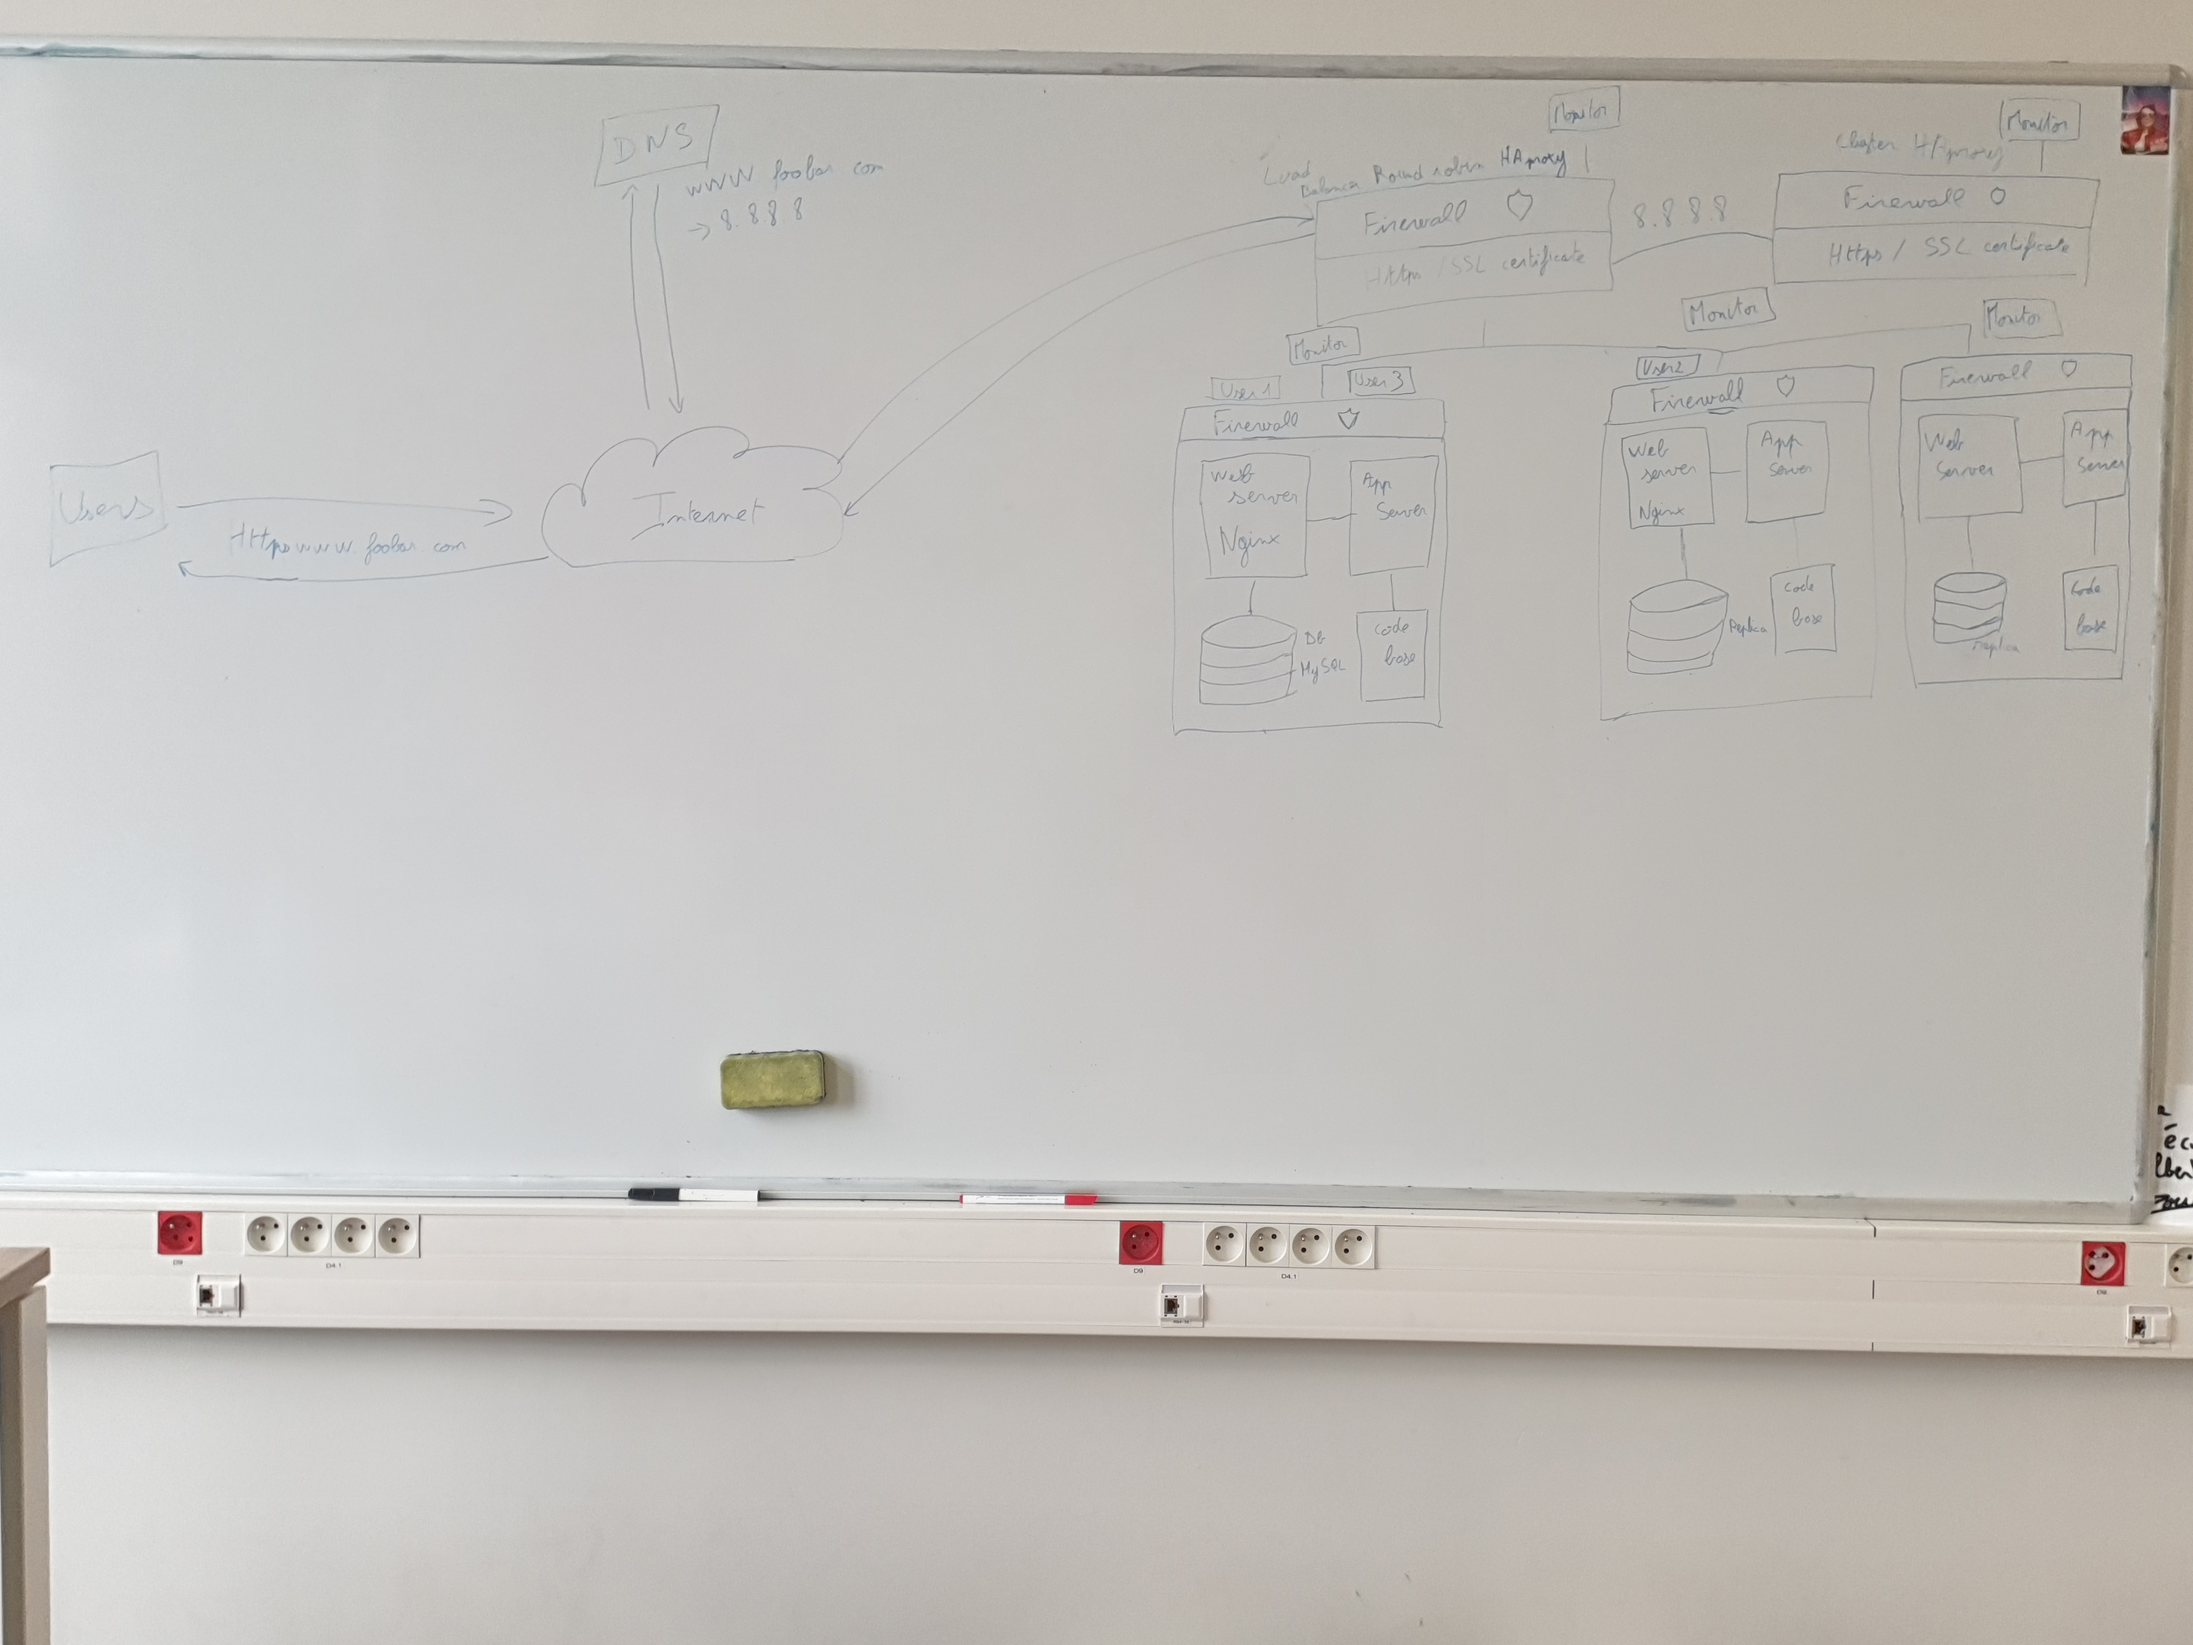
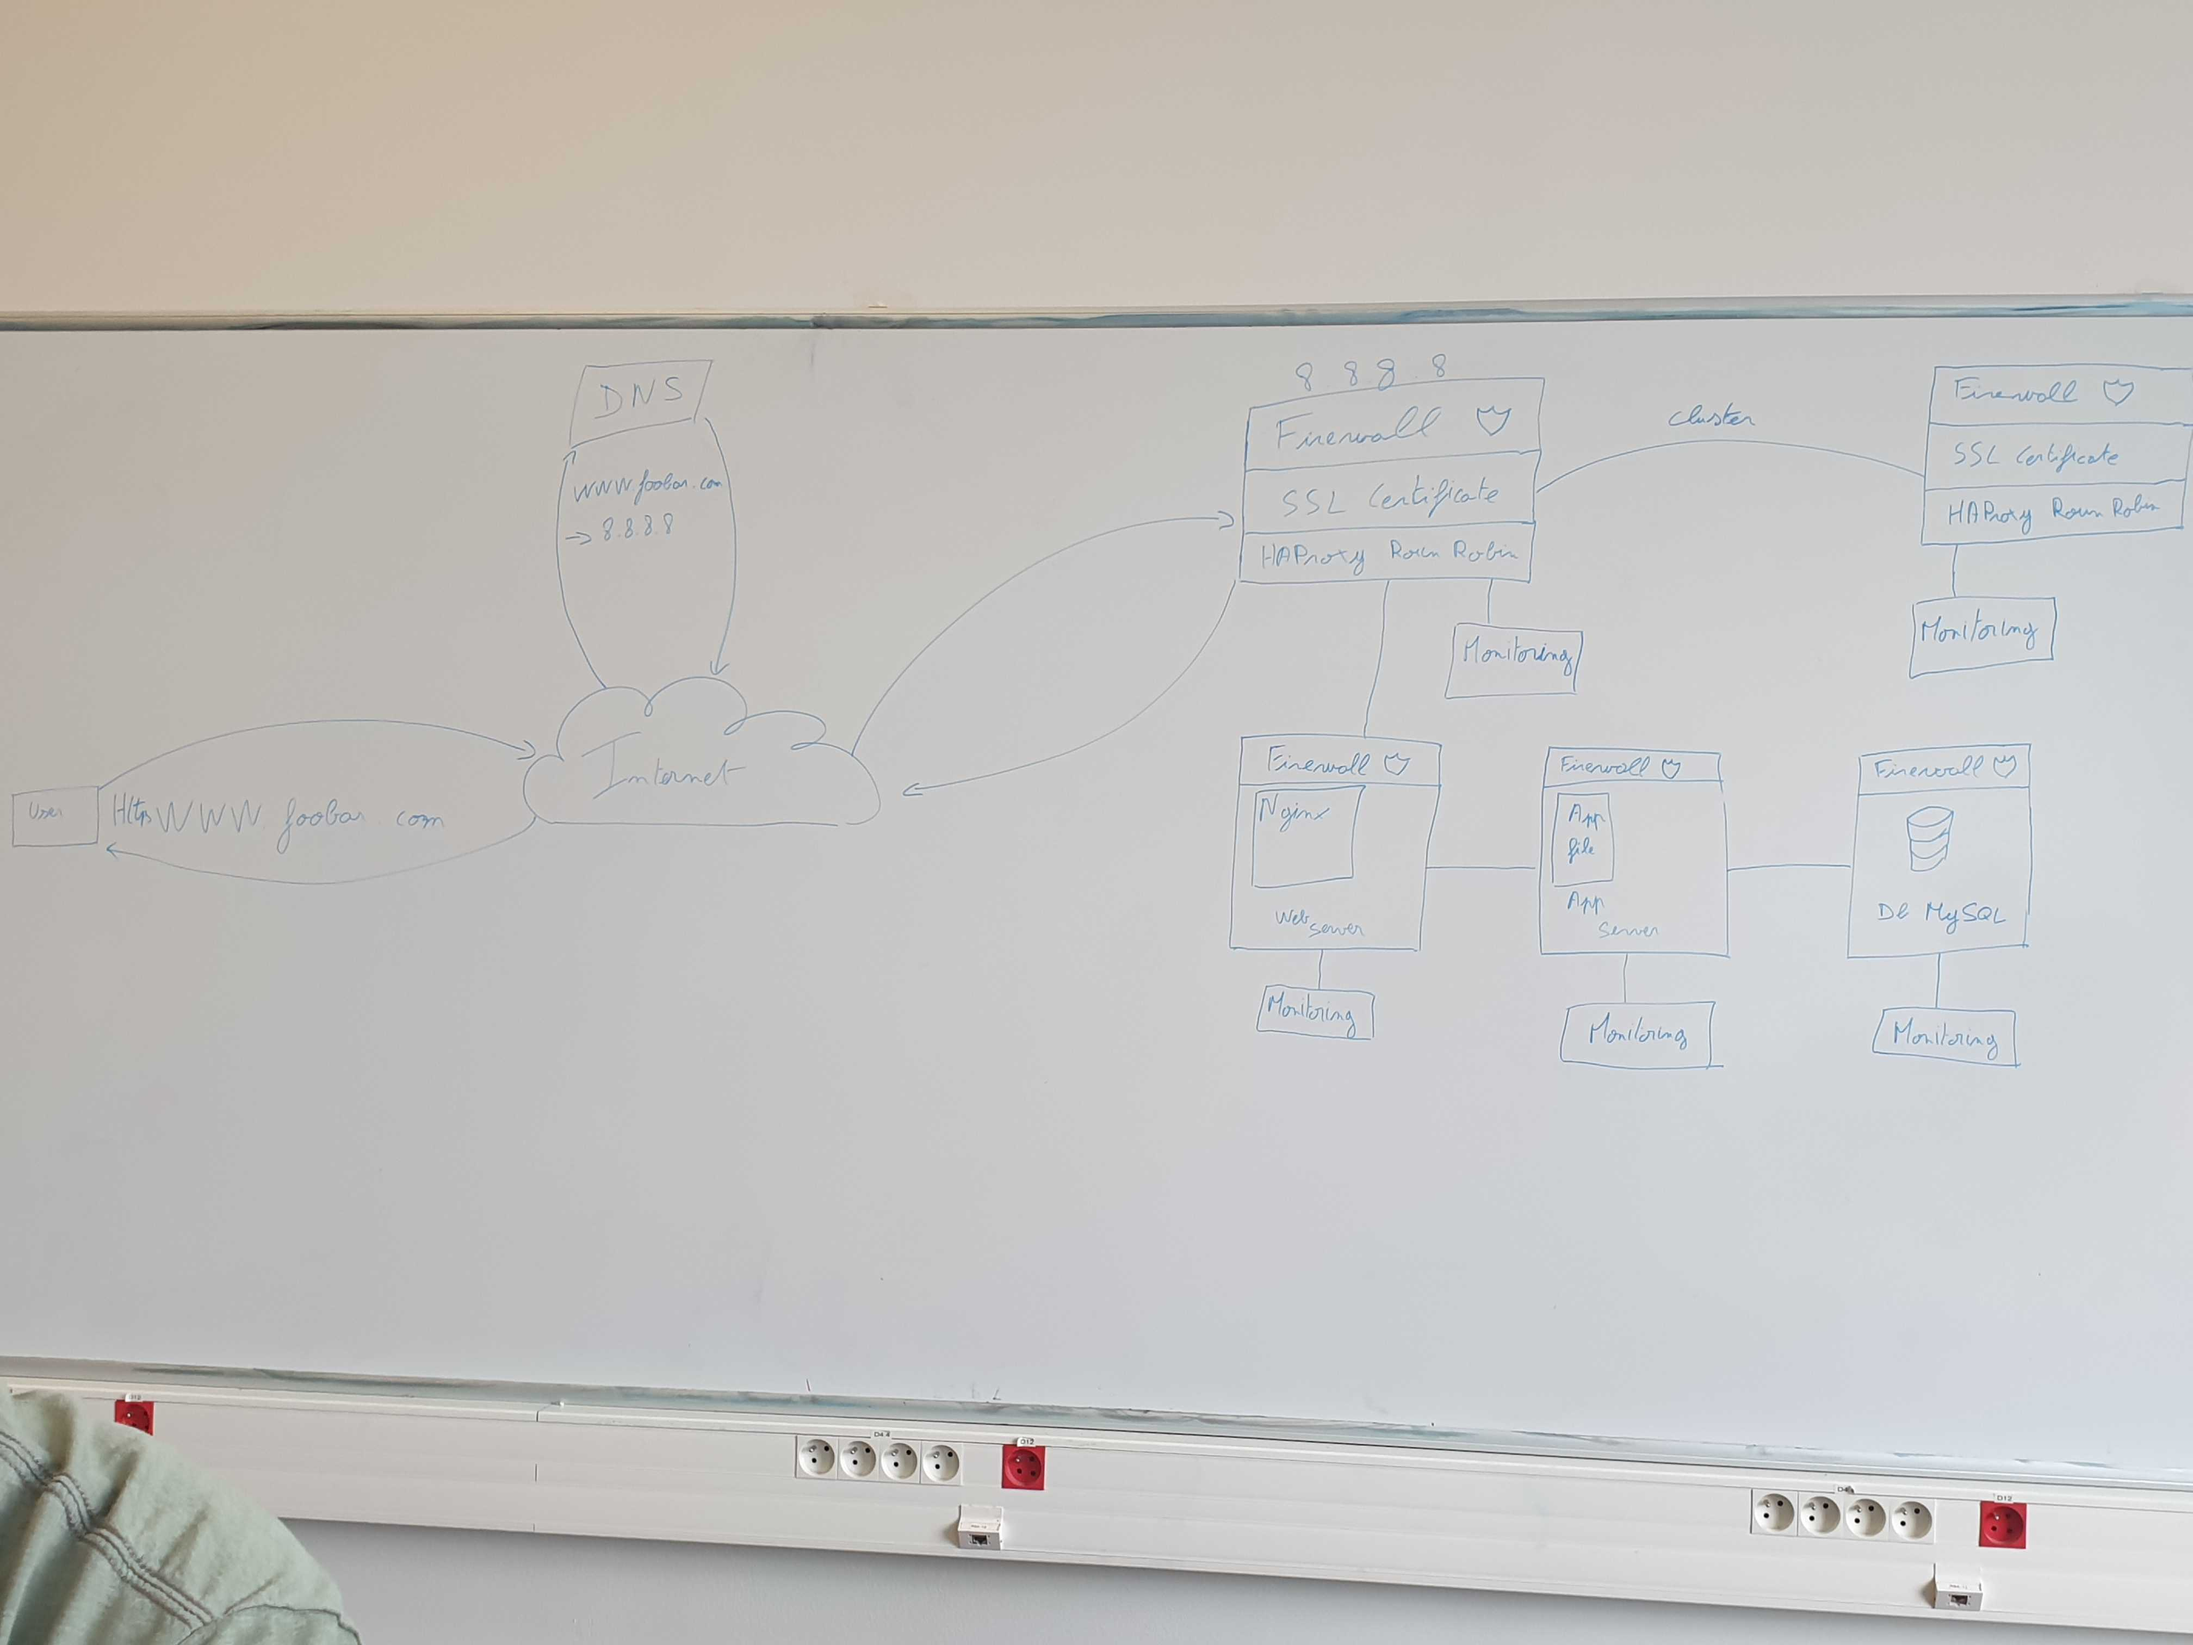
Change diagram for scale up and complete the readme

diff --git a/web_infrastructure_design/README.md b/web_infrastructure_design/README.md
@@ -1,2 +1,143 @@
-Project Web infrastructure design weekly 05/12/2025
+# **Project Web infrastructure design weekly 05/12/2025**
+
+## <u>**0-simple_web_stack**</u>
+### <u>Diagram</u>
 ![0-simple_web_stack](./0-simple_web_stack.jpg)
+
+### <u>Description</u>
+* 1 domain name foobar.com configured with a www record that points to your server IP 8.8.8.8
+* 1 server (containing the following):
+	* 1 web server (Nginx)
+	* 1 application server
+	* 1 application files (your code base)
+	* 1 database (MySQL)
+
+### <u>Flow</u>
+* The user makes a request for www.foobar.com in their browser.
+* The browser checks the local cache to see if the IP for www.foobar.com exists; if it does not, it queries DNS to obtain the IP (e.g., 8.8.8.8).
+* The browser sends an HTTP request via TCP/IP to the obtained IP address.
+* Nginx handles the request on port 80.
+* The app server processes the request, querying the MySQL database if needed.
+* The server builds and sends the HTTP response to the user.
+* The IP is stored in the local cache for subsequent requests until its TTL expires.
+
+### <u>Question</u>
+ What the issues are with this infrastructure?
+<u>Single Point Of Failure(SPOF)</u>
+There is only one server; if it fails, the website goes down.
+<u>Downtime for maintenance</u>
+When restarting services or deploying code updates, the website becomes unavailable.
+<u>Scalability limits</u>
+A single server cannot handle high traffic.
+
+## <u>**1-distributed_web_infrastructure**</u>
+### <u>Diagram</u>
+![1-distributed_web_infrastructure](./1-distributed_web_infrastructure.jpg)
+
+### <u>Description</u>
+* 1 load-balancer
+	* HAproxy (Software)
+	* Configured with Round Robin
+* 2 servers (each containing the following)
+	* 1 web server (Nginx)
+	* 1 application server
+	* 1 set of application files (your code base)
+	* 1 database (MySQL (1 master and 1 slave in a read-only))
+
+### <u>Flow</u>
+* The user makes a request for www.foobar.com in their browser.
+* The browser checks the local cache to see if the IP for www.foobar.com exists; if it does not, it queries DNS to obtain the IP (e.g., 8.8.8.8).
+* The browser sends an HTTP request via TCP/IP to the obtained IP address.
+* The request arrives at the load balancer on port 80, which forwards it to one of the servers in a round-robin fashion (an active-active setup distributes load evenly across all nodes).
+* Nginx handles the request.
+* The application server processes the request and queries the MySQL database if needed.
+	* If it’s a read operation and the request is routed to a read replica, the query goes to the replica.
+	* If it’s a write operation, the query is sent to the master database.
+* The server builds and sends the HTTP response to the user.
+* The IP is stored in the local cache for subsequent requests until its TTL expires.
+
+### <u>Question</u>
+What the issues are with this infrastructure?
+<u>Single Point Of Failure(SPOF)</u>
+If the load balancer goes down, no server can be reached. The MySQL master is the only writable database; if it's fails, all writes stop.
+<u>Security issues</u>
+No firewall, leaving servers exposed to unauthorized traffic, and without an SSL certificate, all data is sent in plaintext.
+<u>No monitoring</u>
+There’s no system to track uptime, performance, or logs, so failures or performance degradation go undetected.
+
+## <u>**2-secured_and_monitored_web_infrastructure**</u>
+### <u>Diagram</u>
+![2-secured_and_monitored_web_infrastructure](./2-secured_and_monitored_web_infrastructure.jpg)
+
+### <u>Description</u>
+* 1 load-balancer
+	* HAproxy (Software)
+	* Configured with Round Robin
+	* 1 firewall
+	* 1 SSL certificate
+	* 1 monitor
+* 2 servers (each containing the following)
+	* 1 monitor
+	* 1 firewall
+	* 1 web server (Nginx)
+	* 1 application server
+	* 1 set of application files (your code base)
+	* 1 database (MySQL (1 master and 1 slave in a read-only))
+
+### <u>Flow</u>
+* The user makes a request for www.foobar.com in their browser.
+* The browser checks the local cache to see if the IP for www.foobar.com exists; if it does not, it queries DNS to obtain the IP (e.g., 8.8.8.8).
+* The browser establishes a TCP connection to that IP on port 443 and sends an HTTPS request.
+* The load balancer’s firewall permits inbound HTTPS (port 443) from any client, allows SSH (port 22) only from authorized IPs, and drops all other traffic.
+* The load balancer terminates SSL/TLS, then in an active-active round-robin configuration forwards the HTTP request to one of the backend servers.
+* HAProxy is tuned to handles a number of QPS per node, with alerts if average QPS by minute exceeds 3/4 QPS handles.
+* A monitoring system collects health metrics, QPS, logs, and performance data from the load balancer and each server, triggering alerts on failures or resource saturation.
+* Each server’s firewall allows HTTP (port 80) and SSH (port 22) only from authorized IPs, blocking all other ingress.
+* Nginx on the selected server handles the HTTP request.
+* The application server processes the request and queries the MySQL database if needed.
+	* If it’s a read operation and the request is routed to a read replica, the query goes to the replica.
+	* If it’s a write operation, the query is sent to the master database.
+* The server builds and sends the HTPPS response to the user.
+* The IP is stored in the local cache for subsequent requests until its TTL expires.
+
+### <u>Question</u>
+What the issues are with this infrastructure?
+<u>Why terminating SSL at the load balancer level is an issue?</u>
+Because SSL is decrypted on the load balancer, traffic between the load balancer and server is unencrypted and exposing data on internal network.
+<u>Why having only one MySQL server capable of accepting writes is an issue?</u>
+The MySQL master is the only writable database; if it's fails, all writes , that created a SPOF.
+<u>Why having servers with all the same components (database, web server and application server) might be a problem</u>
+
+
+## <u>**3-scale_up**</u>
+### <u>Diagram</u>
+![3-scale_up](./3-scale_up.jpg)
+
+### <u>Description</u>
+* 2 load-balancer in cluster (each containing the following)
+	* HAproxy (Software)
+	* Configured with Round Robin
+	* 1 firewall
+	* 1 SSL certificate
+	* 1 monitor
+* 3 servers
+	* 1 web server (Nginx)
+	* 1 application server, 1 set of application files (your code base)
+	* 1 database in MySQL
+	* each server containing the following:
+		* 1 Firewall
+		* 1 Monitor
+
+### <u>Flow</u>
+* The user makes a request for www.foobar.com in their browser.
+* The browser checks the local cache to see if the IP for www.foobar.com exists; if it does not, it queries DNS to obtain the IP (e.g., 8.8.8.8).
+* The browser establishes a TCP connection to that IP on port 443 and sends an HTTPS request.
+* The load balancer’s firewall permits inbound HTTPS (port 443) from any client, allows SSH (port 22) only from authorized IPs, and drops all other traffic.
+* The load balancer terminates SSL/TLS, then in an active-active round-robin configuration forwards the HTTP request to one of the backend servers.
+* HAProxy is tuned to handles a number of QPS, with alerts if average QPS by minute exceeds 3/4 QPS handles.
+* A monitoring system collects health metrics, QPS, logs, and performance data from the load balancer and each server, triggering alerts on failures or resource saturation.
+* Server firewall allows HTTP (port 80) and SSH (port 22) only from authorized IPs, blocking all other ingress.
+* Nginx on the selected server handles the HTTP request.
+* The application server processes the request and queries the MySQL database if needed.
+* The server builds and sends the HTPPS response to the user.
+* The IP is stored in the local cache for subsequent requests until its TTL expires.
